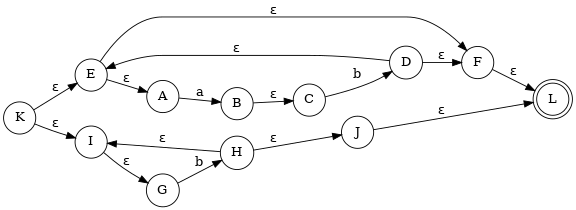
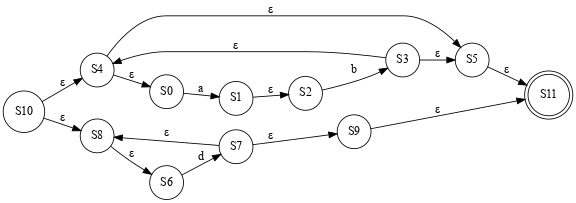
Updated state names

Changed region(s): [[0.0, 0.0296, 1.0, 1.0], [0.75, 0.1182, 0.7812, 0.1773]]

diff --git a/graph.py b/graph.py
@@ -13,12 +13,12 @@ class State:
         self.map.append({edge_value: output_state})
     
     def __str__(self, level=0):
-        s = "\t" * level + "State " + chr(self.value) + "\n"
+        s = "\t" * level + "State " + "S"+ str(self.value) + "\n"
         State.previously_printed.append(self.value)
         for output in self.map:
             for key in output:
                 if output[key].value in State.previously_printed:
-                    s += "\t" * level + key + " --> " + "\n" + "\t" * (level+1) + "State " + chr(output[key].value) + "\n"
+                    s += "\t" * level + key + " --> " + "\n" + "\t" * (level+1) + "State " + "S" + str(output[key].value) + "\n"
                 else:
                     s += "\t" * level + key + " --> " + "\n" + output[key].__str__(level + 1) + "\n"
                     State.previously_printed.append(output[key].value) 
@@ -38,14 +38,14 @@ class State:
         return graph
 
     def json_add_keyvalue(self, data, output, key):
-        state = chr(self.value)
+        state = "S" + str(self.value)
         if state not in data:
             data[state] = {}
         if key == "\u03b5":
             newKey = "Epsilon"
         else:
             newKey = key
-        outState = chr(output[key].value)
+        outState = "S" + str(output[key].value)
         if newKey not in data[state]:
             data[state][newKey] = list(outState)
         else:
@@ -53,27 +53,27 @@ class State:
 
     def draw_graph_helper(self, graph, data):
         State.previously_printed.append(self.value)
-        if chr(self.value) not in data:
-            data[chr(self.value)] = {}
-        data[chr(self.value)]["isTerminatingState"] = len(self.map) == 0
+        if "S" + str(self.value) not in data:
+            data["S" + str(self.value)] = {}
+        data["S" + str(self.value)]["isTerminatingState"] = len(self.map) == 0
             
         for output in self.map:
             for key in output:
                 self.json_add_keyvalue(data, output, key)
                 if len(output[key].map) == 0:
                     graph.attr('node', shape='doublecircle')
-                    graph.node(chr(output[key].value))
+                    graph.node("S" + str(output[key].value))
                     graph.attr('node', shape='circle')
-                    graph.edge(chr(self.value), chr(output[key].value), label=key)
+                    graph.edge("S" + str(self.value), "S" + str(output[key].value), label=key)
                 else:
-                    graph.edge(chr(self.value), chr(output[key].value), label=key)
+                    graph.edge("S" + str(self.value), "S" + str(output[key].value), label=key)
                 if output[key].value not in State.previously_printed:
                     State.previously_printed.append(output[key].value) 
                     output[key].draw_graph_helper(graph, data)
 
 
 class Graph:
-    last_state_value = 65
+    last_state_value = 0
     def __init__(self):
         self.initial_state = None
         self.last_state = None
